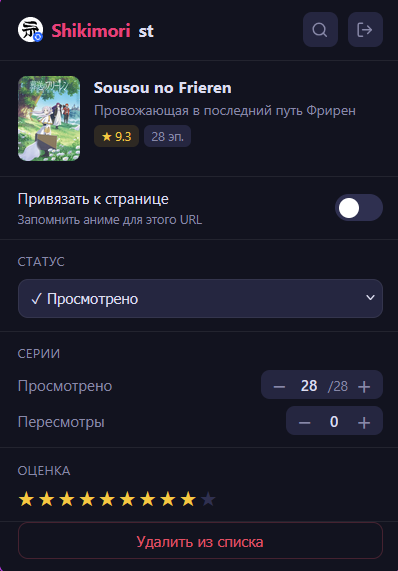
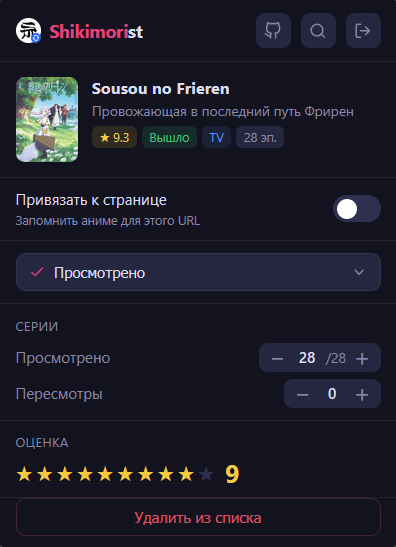
2.0.5: New chips, changes to main menu, added links to gitkhab, minor fixes, updated images

diff --git a/src/popup.js b/src/popup.js
@@ -52,12 +52,7 @@ function lev(a, b) {
 }
 
 function bestMatch(query, list) {
-  if (list.length === 1) return list[0];
-  const isRu = /[а-яё]/i.test(query);
-  return list.reduce((best, a) => {
-    const name = isRu ? (a.russian || a.name || '') : (a.name || '');
-    return lev(query, name) < lev(query, isRu ? (best.russian || best.name || '') : (best.name || '')) ? a : best;
-  });
+  return list[0];
 }
 
 // ── State ─────────────────────────────────────────────────────────────────────
@@ -90,7 +85,11 @@ function show(name) {
   };
 
   function csSetValue(val, label) {
-    $('cs-icon').innerHTML = STATUS_ICONS[val] || '';
+    const doc = new DOMParser()
+      .parseFromString(`<div>${STATUS_ICONS[val] || ''}</div>`, 'text/html');
+    const svgEl = doc.querySelector('svg');
+    if (svgEl) $('cs-icon').replaceChildren(svgEl);
+    else $('cs-icon').replaceChildren();
     $('cs-label').textContent = label;
     document.querySelectorAll('.cs-opt').forEach(o =>
       o.classList.toggle('active', o.dataset.v === val)
@@ -105,14 +104,64 @@ function renderAnime() {
 
   $('a-poster').src = anime.image ? HOST + anime.image.preview : '';
   $('a-name').textContent = anime.name || '';
+  $('a-name').style.cursor = 'pointer';
+  $('a-name').title = 'Открыть на Shikimori';
+  $('a-name').onclick = () => chrome.tabs.create({ url: HOST + anime.url });
   $('a-ru').textContent = anime.russian || '';
 
   const chips = $('a-chips');
   chips.innerHTML = '';
-  if (anime.score > 0) chips.innerHTML += `<span class="chip gold">★ ${parseFloat(anime.score).toFixed(1)}</span>`;
   const ep = anime.episodes || anime.episodes_aired;
-  if (ep) chips.innerHTML += `<span class="chip">${ep} эп.</span>`;
+  if (anime.score > 0) {
+    const s = document.createElement('span');
+    s.className = 'chip gold';
+    s.textContent = `★ ${parseFloat(anime.score).toFixed(1)}`;
+    chips.appendChild(s);
+  }
 
+  const STATUS_CHIP = {
+    anons:    { label: 'Анонс',   cls: 'blue' },
+    ongoing:  { label: 'Онгоинг', cls: 'acc' },
+    released: { label: 'Вышло',   cls: 'green' },
+  };
+  if (anime.status && STATUS_CHIP[anime.status]) {
+    const s = document.createElement('span');
+    s.className = 'chip ' + STATUS_CHIP[anime.status].cls;
+    s.textContent = STATUS_CHIP[anime.status].label;
+    chips.appendChild(s);
+  }
+
+  if (anime.next_episode_at) {
+    const date = new Date(anime.next_episode_at);
+    const label = date.toLocaleDateString('ru-RU', { day: 'numeric', month: 'short' });
+    const s = document.createElement('span');
+    s.className = 'chip orange';
+    s.title = 'Следующая серия';
+    s.textContent = `📅 ${label}`;
+    chips.appendChild(s);
+  }
+
+  const KIND_CHIP = {
+    tv:      { label: 'TV',    cls: 'blue' },
+    movie:   { label: 'Фильм', cls: 'purple' },
+    ova:     { label: 'OVA',   cls: 'green' },
+    ona:     { label: 'ONA',   cls: 'green' },
+    special: { label: 'Спешл', cls: '' },
+    music:   { label: 'Клип',  cls: '' },
+  };
+  if (anime.kind && KIND_CHIP[anime.kind]) {
+    const s = document.createElement('span');
+    s.className = 'chip' + (KIND_CHIP[anime.kind].cls ? ' ' + KIND_CHIP[anime.kind].cls : '');
+    s.textContent = KIND_CHIP[anime.kind].label;
+    chips.appendChild(s);
+  }
+
+  if (ep) {
+    const s = document.createElement('span');
+    s.className = 'chip';
+    s.textContent = `${ep} эп.`;
+    chips.appendChild(s);
+  }
   $('a-attach').className = 'tog' + (attached ? ' on' : '');
 
   if (rate) {
@@ -125,6 +174,8 @@ function renderAnime() {
     };
     const st = rate.status || 'watching';
     csSetValue(st, statusLabels[st] || st);
+    $('score-val').textContent = rate.score || '—';
+    $('score-val').style.visibility = rate.score ? 'visible' : 'hidden';
     $('ep-v').textContent = rate.episodes || 0;
     $('ep-of').textContent = ep ? `/${ep}` : '/—';
     $('rw-v').textContent = rate.rewatches || 0;
@@ -144,6 +195,8 @@ function renderAnime() {
   } else {
     $('in-list').style.display = 'none';
     $('no-list').style.display = '';
+    $('score-val').textContent = '—';
+    $('score-val').style.visibility = 'hidden';
   }
 }
 
@@ -151,6 +204,8 @@ function previewStars(n) {
   document.querySelectorAll('#stars .star').forEach(el => {
     el.classList.toggle('on', +el.dataset.n <= n);
   });
+  $('score-val').textContent = n || '—';
+  $('score-val').style.visibility = n ? 'visible' : 'hidden';
 }
 
 // ── Rate API ──────────────────────────────────────────────────────────────────
@@ -179,23 +234,35 @@ async function rateCreate(status) {
 
 async function rateUpdate(changes) {
   if (!ST.rate) return;
+  const prev = { ...ST.rate };
+  ST.rate = { ...ST.rate, ...changes };
+  renderAnime();
   try {
-    ST.rate = await api(`/api/v2/user_rates/${ST.rate.id}`, {
+    ST.rate = await api(`/api/v2/user_rates/${prev.id}`, {
       method: 'PATCH',
       body: JSON.stringify({ user_rate: changes })
     });
     renderAnime();
-  } catch (e) { toast(e.message, 'err'); }
+  } catch (e) {
+    ST.rate = prev;
+    renderAnime();
+    toast(e.message, 'err');
+  }
 }
 
 async function rateDelete() {
   if (!ST.rate) return;
+  const prev = { ...ST.rate };
+  ST.rate = null;
+  renderAnime();
+  toast('Удалено из списка');
   try {
-    await api(`/api/v2/user_rates/${ST.rate.id}`, { method: 'DELETE' });
-    ST.rate = null;
+    await api(`/api/v2/user_rates/${prev.id}`, { method: 'DELETE' });
+  } catch (e) {
+    ST.rate = prev;
     renderAnime();
-    toast('Удалено из списка');
-  } catch (e) { toast(e.message, 'err'); }
+    toast(e.message, 'err');
+  }
 }
 
 // ── Search ────────────────────────────────────────────────────────────────────
@@ -211,7 +278,24 @@ async function doSearch(q) {
     r.forEach(a => {
       const el = document.createElement('div');
       el.className = 'srch-item';
-      el.innerHTML = `<img class="srch-thumb" src="${a.image ? HOST + a.image.preview : ''}" alt=""/><div style="flex:1;min-width:0"><div class="srch-name">${a.name||''}</div><div class="srch-sub">${a.russian||''}</div></div>`;
+      const img = document.createElement('img');
+      img.className = 'srch-thumb';
+      img.src = a.image ? HOST + a.image.preview : '';
+      img.alt = '';
+
+      const info = document.createElement('div');
+      info.style.cssText = 'flex:1;min-width:0';
+
+      const nm = document.createElement('div');
+      nm.className = 'srch-name';
+      nm.textContent = a.name || '';
+
+      const sub = document.createElement('div');
+      sub.className = 'srch-sub';
+      sub.textContent = a.russian || '';
+
+      info.append(nm, sub);
+      el.append(img, info);
       el.addEventListener('click', () => pickAnime(a));
       $('q-list').appendChild(el);
     });
@@ -288,7 +372,7 @@ async function init() {
     try {
       const r = await api(`/api/animes?search=${encodeURIComponent(pd.name)}&limit=10&page=1`);
       if (!r.length) { show('empty'); return; }
-      ST.anime = bestMatch(pd.name, r);
+      ST.anime = await api('/api/animes/' + bestMatch(pd.name, r).id);
       ST.attached = false;
       ST.rate = await fetchRate();
       renderAnime();
@@ -394,9 +478,27 @@ document.addEventListener('DOMContentLoaded', () => {
   $('e-sites').addEventListener('click', e => {
     e.preventDefault();
     const list = $('sites-list');
-    list.innerHTML = SITES.map(s =>
-      `<div class="site-item"><a class="site-a" href="${s.url}" target="_blank">${s.name}</a>${s.vpn ? '<span class="site-vpn">VPN</span>' : ''}</div>`
-    ).join('');
+    list.innerHTML = '';
+    SITES.forEach(s => {
+      const item = document.createElement('div');
+      item.className = 'site-item';
+
+      const a = document.createElement('a');
+      a.className = 'site-a';
+      a.href = s.url;
+      a.target = '_blank';
+      a.textContent = s.name;
+      item.appendChild(a);
+
+      if (s.vpn) {
+        const badge = document.createElement('span');
+        badge.className = 'site-vpn';
+        badge.textContent = 'VPN';
+        item.appendChild(badge);
+      }
+
+      list.appendChild(item);
+    });
     show('sites');
   });
 

diff --git a/src/popup.html b/src/popup.html
@@ -18,6 +18,8 @@
   --green: #3ec47a;
   --blue: #5b8dee;
   --gold: #f5c842;
+  --purple: #c239f9;
+  --orange: #f98939;
   --red: #e05065;
   --sep: rgba(255,255,255,0.07);
   --r: 10px;
@@ -135,9 +137,11 @@ body {
 .card-chips { display: flex; gap: 4px; flex-wrap: wrap; margin-top: 5px; }
 .chip { background: var(--c2); border-radius: 5px; padding: 2px 6px; font-size: 10px; color: var(--muted); }
 .chip.gold { background: rgba(245,200,66,.12); color: var(--gold); }
+.chip.purple { background: rgba(194,57,249,.12); color: var(--purple); }
 .chip.green { background: rgba(62,196,122,.12); color: var(--green); }
 .chip.blue { background: rgba(91,141,238,.12); color: var(--blue); }
 .chip.red { background: rgba(224,80,101,.12); color: var(--red); }
+.chip.orange { background: rgba(249,137,57,.12); color: var(--orange); }
 .chip.acc { background: rgba(232,65,122,.12); color: var(--acc); }
 
 /* Attach row */
@@ -174,6 +178,7 @@ body {
   gap: 7px; transition: border-color .15s;
 }
 .cs-trigger:hover, .custom-sel.open .cs-trigger { border-color: var(--acc); }
+.cs-icon { line-height: 0; }
 .cs-icon svg { width: 13px; height: 13px; fill: none; stroke: var(--acc);
   stroke-width: 2; stroke-linecap: round; stroke-linejoin: round; }
 .cs-label { flex: 1; text-align: left; }
@@ -272,6 +277,9 @@ body {
 
 <!-- AUTH -->
 <div id="s-auth" class="scr">
+  <a class="ibtn" href="https://github.com/SvinkaSunshine/shikimorist" target="_blank" title="Нашли ошибку или проблему? Вам сюда -> GitHub" style="align-self:flex-end;margin:-20px -12px 0 0;">
+    <svg viewBox="0 0 24 24"><path d="M9 19c-5 1.5-5-2.5-7-3m14 6v-3.87a3.37 3.37 0 0 0-.94-2.61c3.14-.35 6.44-1.54 6.44-7A5.44 5.44 0 0 0 20 4.77 5.07 5.07 0 0 0 19.91 1S18.73.65 16 2.48a13.38 13.38 0 0 0-7 0C6.27.65 5.09 1 5.09 1A5.07 5.07 0 0 0 5 4.77a5.44 5.44 0 0 0-1.5 3.78c0 5.42 3.3 6.61 6.44 7A3.37 3.37 0 0 0 9 18.13V22"/></svg>
+  </a>
   <div class="auth-icon">
     <svg viewBox="0 0 24 24"><path d="M20 21v-2a4 4 0 0 0-4-4H8a4 4 0 0 0-4 4v2"/><circle cx="12" cy="7" r="4"/></svg>
   </div>
@@ -283,7 +291,13 @@ body {
 <!-- EMPTY -->
 <div id="s-empty" class="scr">
   <div class="hdr">
-    <a class="hdr-logo" href="https://shikimori.io" target="_blank"><img src="icons/48.png" alt=""/><b>Shikimori</b>st</a>
+    <a class="hdr-logo" href="https://shikimori.io" target="_blank">
+      <img src="icons/48.png" alt=""/>
+      <span><b>Shikimori</b>st</span>
+    </a>
+    <a class="ibtn" href="https://github.com/SvinkaSunshine/shikimorist" target="_blank" title="Нашли ошибку или проблему? Вам сюда -> GitHub">
+      <svg viewBox="0 0 24 24"><path d="M9 19c-5 1.5-5-2.5-7-3m14 6v-3.87a3.37 3.37 0 0 0-.94-2.61c3.14-.35 6.44-1.54 6.44-7A5.44 5.44 0 0 0 20 4.77 5.07 5.07 0 0 0 19.91 1S18.73.65 16 2.48a13.38 13.38 0 0 0-7 0C6.27.65 5.09 1 5.09 1A5.07 5.07 0 0 0 5 4.77a5.44 5.44 0 0 0-1.5 3.78c0 5.42 3.3 6.61 6.44 7A3.37 3.37 0 0 0 9 18.13V22"/></svg>
+    </a>
     <button class="ibtn" id="e-search" title="Поиск"><svg viewBox="0 0 24 24"><circle cx="11" cy="11" r="8"/><path d="m21 21-4.4-4.4"/></svg></button>
     <button class="ibtn" id="e-logout" title="Выйти"><svg viewBox="0 0 24 24"><path d="M9 21H5a2 2 0 0 1-2-2V5a2 2 0 0 1 2-2h4"/><polyline points="16 17 21 12 16 7"/><line x1="21" y1="12" x2="9" y2="12"/></svg></button>
   </div>
@@ -311,7 +325,13 @@ body {
 <!-- ANIME -->
 <div id="s-anime" class="scr">
   <div class="hdr">
-    <a class="hdr-logo" href="https://shikimori.io" target="_blank"><img src="icons/48.png" alt=""/><b>Shikimori</b>st</a>
+    <a class="hdr-logo" href="https://shikimori.io" target="_blank">
+      <img src="icons/48.png" alt=""/>
+      <span><b>Shikimori</b>st</span>
+    </a>
+    <a class="ibtn" href="https://github.com/SvinkaSunshine/shikimorist" target="_blank" title="Нашли ошибку или проблему? Вам сюда -> GitHub">
+      <svg viewBox="0 0 24 24"><path d="M9 19c-5 1.5-5-2.5-7-3m14 6v-3.87a3.37 3.37 0 0 0-.94-2.61c3.14-.35 6.44-1.54 6.44-7A5.44 5.44 0 0 0 20 4.77 5.07 5.07 0 0 0 19.91 1S18.73.65 16 2.48a13.38 13.38 0 0 0-7 0C6.27.65 5.09 1 5.09 1A5.07 5.07 0 0 0 5 4.77a5.44 5.44 0 0 0-1.5 3.78c0 5.42 3.3 6.61 6.44 7A3.37 3.37 0 0 0 9 18.13V22"/></svg>
+    </a>
     <button class="ibtn" id="a-search" title="Поиск"><svg viewBox="0 0 24 24"><circle cx="11" cy="11" r="8"/><path d="m21 21-4.4-4.4"/></svg></button>
     <button class="ibtn" id="a-logout" title="Выйти"><svg viewBox="0 0 24 24"><path d="M9 21H5a2 2 0 0 1-2-2V5a2 2 0 0 1 2-2h4"/><polyline points="16 17 21 12 16 7"/><line x1="21" y1="12" x2="9" y2="12"/></svg></button>
   </div>
@@ -383,7 +403,10 @@ body {
     </div>
     <div class="rsec">
       <div class="rsec-lbl">Оценка</div>
-      <div class="stars" id="stars"></div>
+      <div style="display:flex;align-items:center;gap:8px;">
+        <div class="stars" id="stars"></div>
+        <span id="score-val" style="font-size:20px;font-weight:700;color:var(--gold);min-width:20px;line-height:1;visibility:hidden;">—</span>
+      </div>
     </div>
     <div class="rem-wrap"><button class="rem-btn" id="r-del">Удалить из списка</button></div>
   </div>

diff --git a/src/background.js b/src/background.js
@@ -119,10 +119,19 @@ function sign_in() {
   return new Promise((resolve, reject) => {
     authResolve = resolve;
     authReject  = reject;
-    chrome.tabs.create({ active: true, url: auth_build_url() }, tab => {
-      authTabId = tab.id;
-      chrome.tabs.onUpdated.addListener(tab_on_update);
-      chrome.tabs.onRemoved.addListener(tab_on_remove);
+    chrome.tabs.query({ active: true, currentWindow: true }, tabs => {
+      const prevTabId = tabs[0] ? tabs[0].id : null;
+      chrome.tabs.create({ active: true, url: auth_build_url() }, tab => {
+        authTabId = tab.id;
+        chrome.tabs.onUpdated.addListener(tab_on_update);
+        chrome.tabs.onRemoved.addListener(tab_on_remove);
+
+        const origResolve = authResolve;
+        authResolve = (val) => {
+          if (prevTabId) chrome.tabs.update(prevTabId, { active: true }, () => {});
+          origResolve(val);
+        };
+      });
     });
   });
 }
